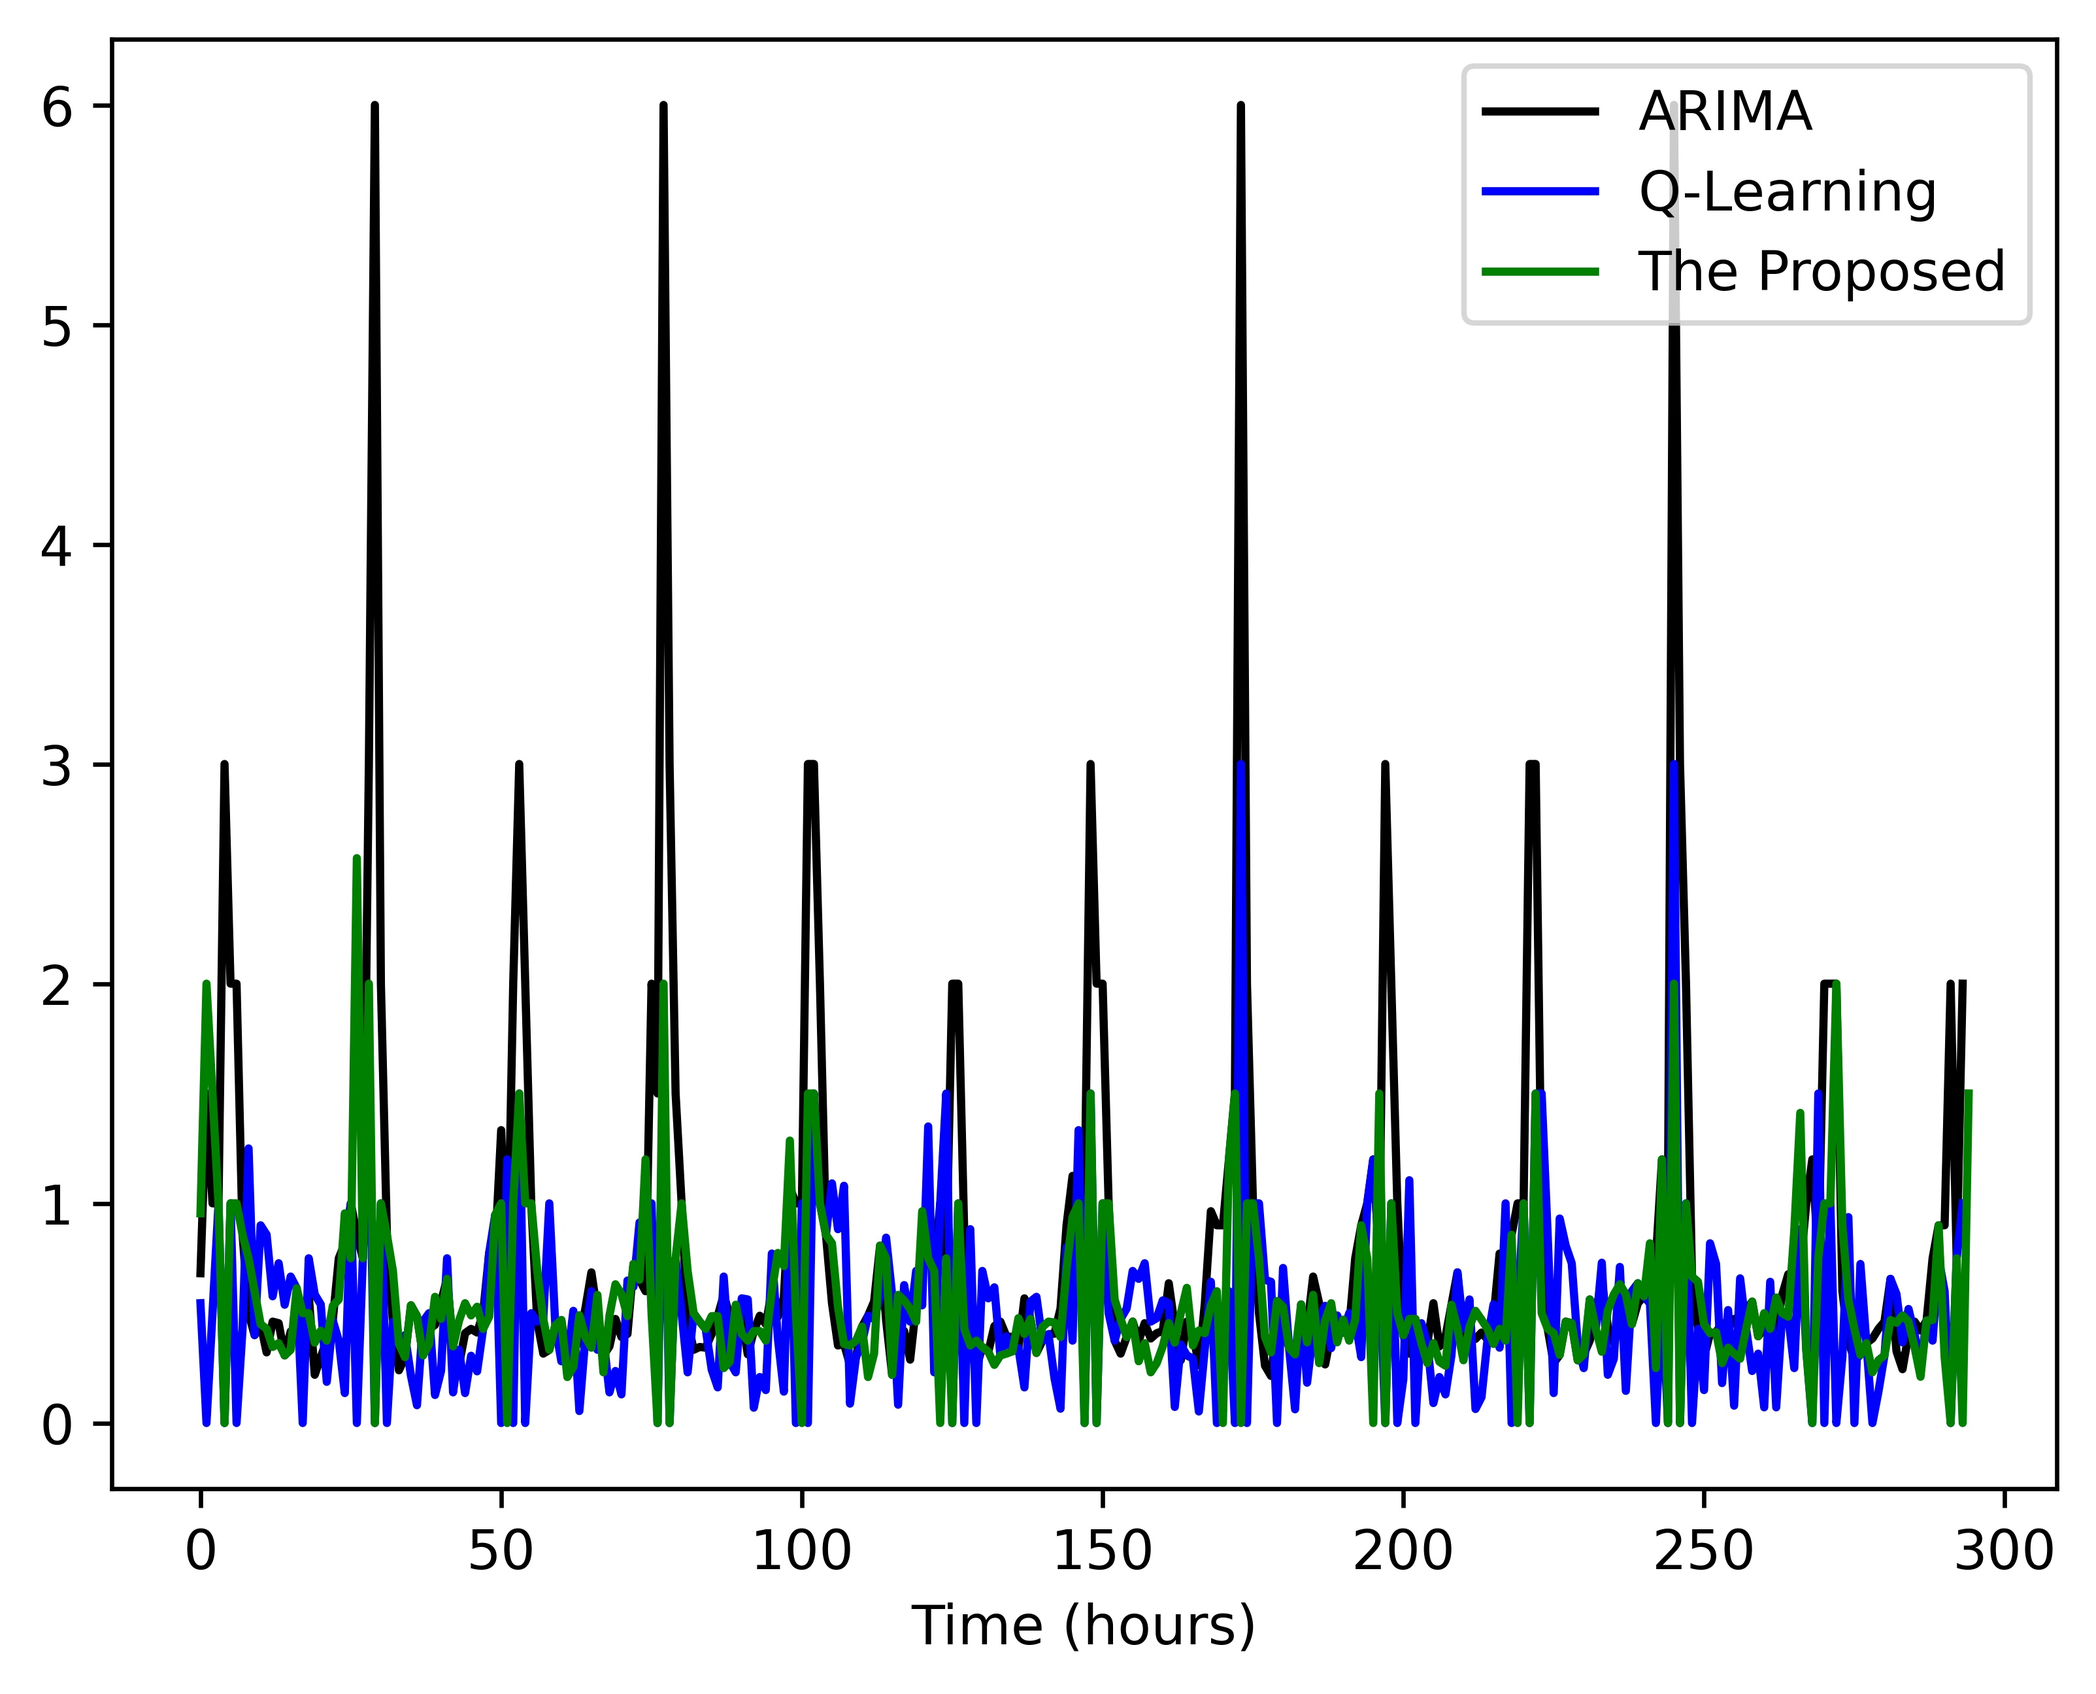
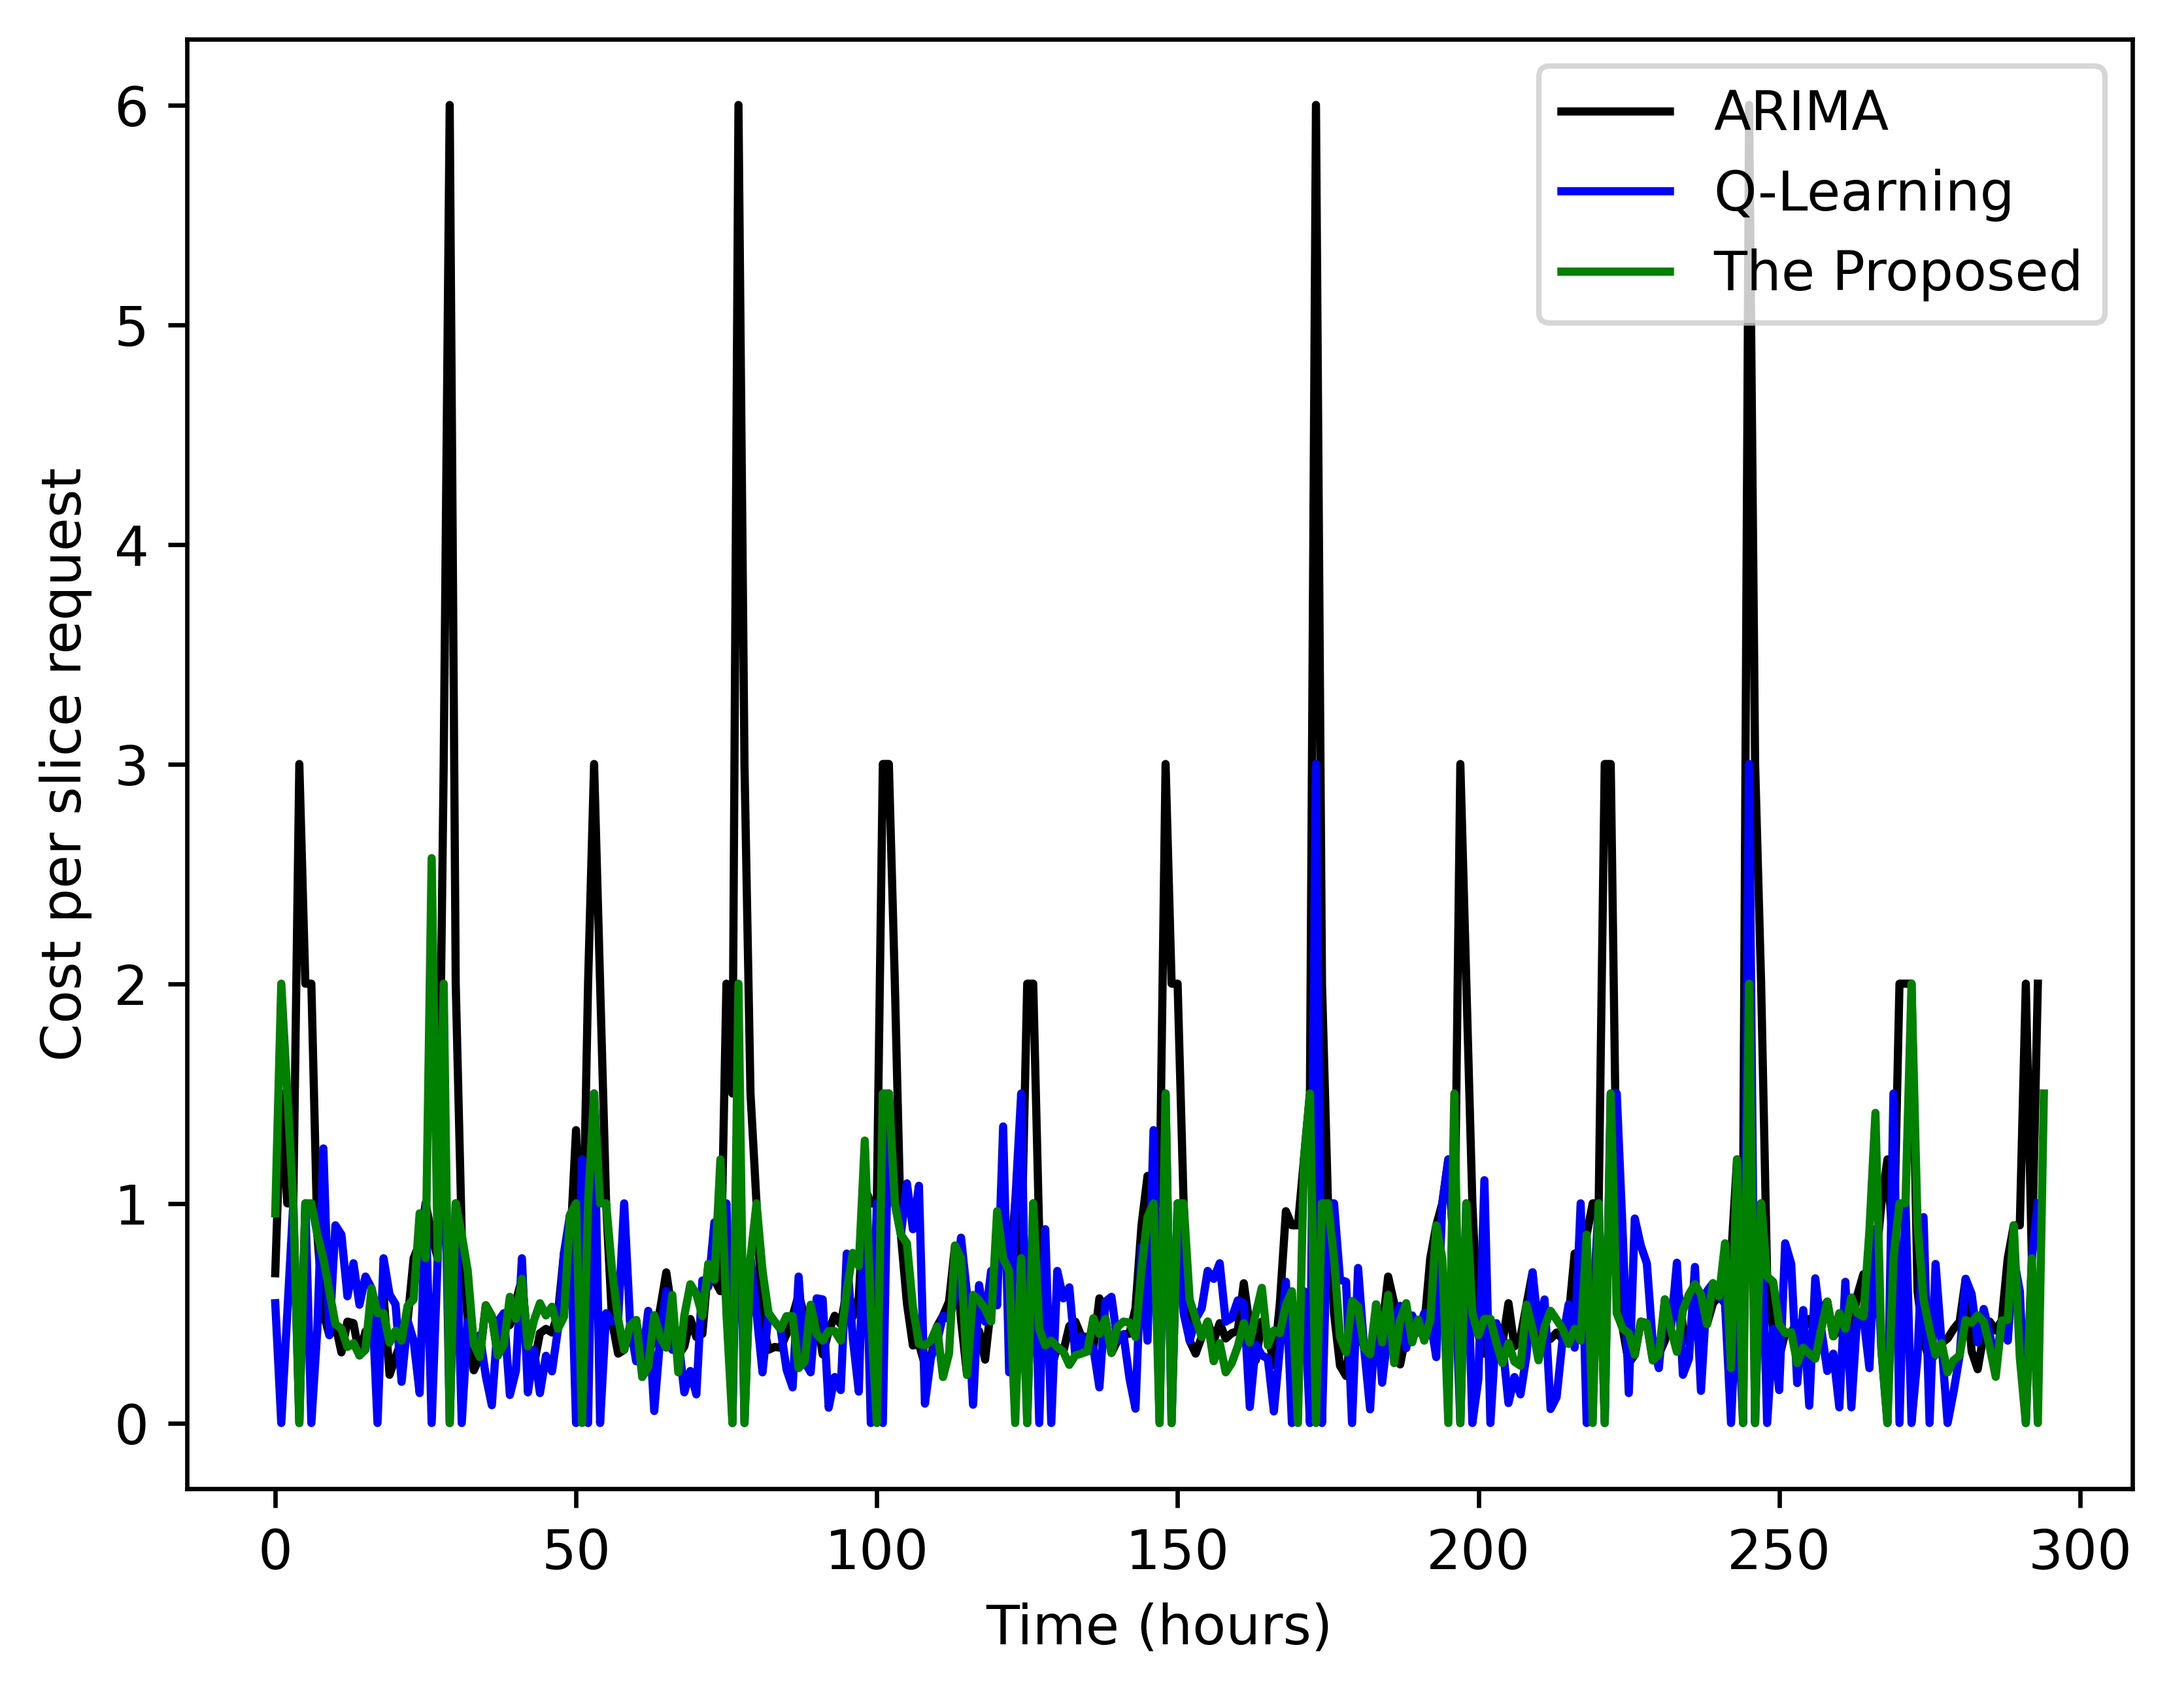
123456

diff --git a/UCD.py b/UCD.py
@@ -301,29 +301,6 @@ def greedy(tasks):
 			break
 	return xi
 
-def greedy2(tasks):
-	xi=[0]*users
-	b=[0]*users
-
-	tasks_s=sorted(tasks.items(), key=lambda kv: kv[1]['pri']/(kv[1]['d']/kv[1]['Tm']) )
-
-	#occupied bandwidth
-	remainB=B
-	remainF=F
-
-	for e in tasks_s:
-		#allocate bandwidth
-		bi=2*e[1]['a']/e[1]['Tm']/log2(1+e[1]['SINR'])
-		fi=1.25*e[1]['d']/e[1]['Tm']
-		if remainB-bi<0 or remainF-fi<0:
-			break
-		else:
-			remainB-=bi
-			remainF-=fi
-			xi[e[0]]=1
-
-	return xi
-
 def PSO(tasks):
 	particles=200
 	#a single particle (solution vector)
@@ -390,7 +367,7 @@ def GA_x(tasks):
 		for a in range(size):
 			xi=list()
 			for b in range(users):
-				if np.random.rand()<prob/users:
+				if np.random.rand()<15/users:
 					xi.append(np.random.rand())
 				else:
 					xi.append(0)
@@ -522,8 +499,9 @@ def draw_avg():
 	plt.show()
 
 def draw_users():
-	#result=[[-0.10689215350174067, -0.12258751955370198, -0.10664938851603122, -0.10914649076739066, -0.10352928516081307, -0.11127262145823709, -0.11005122844295091], [0.5598836536425962, 0.36792046928941746, 0.1649824545931375, -0.10109683084887193, -0.28177171302590576, -0.3590176136757609, -0.37326622068182996], [0.5598964288522993, 0.34955962066748136, 0.21763963785257454, 0.13635219564725318, 0.09686138192362795, 0.052573965820916654, 0.026589646026615635], [0.5216173876758898, 0.40404328923329014, 0.31663210920423096, 0.24558096638413635, 0.192273764101235, 0.1277150637090219, 0.07557143521468176], [0.5598836536425962, 0.3527461792501668, 0.22769903483542914, 0.14634974843610654, 0.10359187562921575, 0.06347987540291242, 0.040366798345693726], [0.5966541623574921, 0.4902104750325136, 0.42170249237138857, 0.3646301289171351, 0.32061896540159845, 0.2731650095641522, 0.23237548736062189]]
-	global users
+	result=[[-0.10689215350174067, -0.12258751955370198, -0.10664938851603122, -0.10914649076739066, -0.10352928516081307, -0.11127262145823709, -0.11005122844295091], [0.5598836536425962, 0.36792046928941746, 0.1649824545931375, -0.10109683084887193, -0.28177171302590576, -0.3590176136757609, -0.37326622068182996], [0.5598964288522993, 0.34955962066748136, 0.21763963785257454, 0.13635219564725318, 0.09686138192362795, 0.052573965820916654, 0.026589646026615635], [0.5216173876758898, 0.40404328923329014, 0.31663210920423096, 0.24558096638413635, 0.192273764101235, 0.1277150637090219, 0.07557143521468176], [0.5598836536425962, 0.3527461792501668, 0.22769903483542914, 0.14634974843610654, 0.10359187562921575, 0.06347987540291242, 0.040366798345693726], [0.5966541623574921, 0.4902104750325136, 0.42170249237138857, 0.3646301289171351, 0.32061896540159845, 0.2731650095641522, 0.23237548736062189]]
+	x=[10,20,30,40,50,60,70]
+	'''global users
 	global prob
 	x=list()
 	result=list()
@@ -537,7 +515,7 @@ def draw_users():
 			result[i].append(perform[i])
 
 		print(users)
-		users+=10
+		users+=10'''
 
 	print('users', result)
 	plt.plot(x,result[5],"go-",label='The Proposed')
@@ -546,7 +524,7 @@ def draw_users():
 	plt.plot(x,result[2],"yD-",label='Greedy')
 	plt.plot(x,result[1],"rp-",label='FRE')
 	plt.plot(x,result[0],"cx-",label='FLE')
-	plt.xlabel("Number of users")
+	plt.xlabel("Number of active SSs")
 	plt.ylabel("Average utility")
 	plt.legend()
 	plt.savefig('QoS.jpg', dpi = 600, bbox_inches='tight')
@@ -657,7 +635,7 @@ def draw_optimal():
 	plt.savefig('OPT.jpg', dpi=600,bbox_inches='tight')
 	plt.show()
 
-draw_optimal()
+draw_alpha()
 #2/24: iterative/greedy:1.08, iterative/GA:1.18 ,
 #2/25: iterative/GA_x:1.22, iterative/GA: 1.18 (both no penalty)
 #2/28: iterative/PSO:1.21, iterative/greedy: 1.57

diff --git a/Implementation.py b/Implementation.py
@@ -369,7 +369,7 @@ def draw_avg():
 	plt.show()
 
 def draw_users():
-	#[[-0.0560508543470955, -0.10232465113244134, -0.08640974215979584, -0.10710901409832328, -0.11701713688781498, -0.10427602351274189, -0.09746809895744712], [0.548330167484117, 0.3653749717294511, 0.1768105388819655, -0.10271013881293471, -0.30076116751519966, -0.3590444674082899, -0.3728112232960363], [0.5484052377587394, 0.3437210604302775, 0.18770637488011946, 0.09592393671138162, 0.027454697703110265, 0.009635876510567265, -0.0025874877668921447], [0.5084444599247216, 0.40346103604543243, 0.32688844161312286, 0.24020588553937477, 0.17849576879610227, 0.1285555842597195, 0.07409804858965259], [0.5484031817144704, 0.3581137583822125, 0.24268856218335222, 0.1448008236867084, 0.08426471425537715, 0.06177033436629506, 0.04645799788399567], [0.5844750504728554, 0.4874066022708568, 0.4296211836404238, 0.3629855676683852, 0.29489952781163703, 0.2606597573873945, 0.23213894889176406]]	
+	result=[[-0.0560508543470955, -0.10232465113244134, -0.08640974215979584, -0.10710901409832328, -0.11701713688781498, -0.10427602351274189, -0.09746809895744712], [0.548330167484117, 0.3653749717294511, 0.1768105388819655, -0.10271013881293471, -0.30076116751519966, -0.3590444674082899, -0.3728112232960363], [0.5484052377587394, 0.3437210604302775, 0.18770637488011946, 0.09592393671138162, 0.027454697703110265, 0.009635876510567265, -0.0025874877668921447], [0.5084444599247216, 0.40346103604543243, 0.32688844161312286, 0.24020588553937477, 0.17849576879610227, 0.1285555842597195, 0.07409804858965259], [0.5484031817144704, 0.3581137583822125, 0.24268856218335222, 0.1448008236867084, 0.08426471425537715, 0.06177033436629506, 0.04645799788399567], [0.5844750504728554, 0.4874066022708568, 0.4296211836404238, 0.3629855676683852, 0.29489952781163703, 0.2606597573873945, 0.23213894889176406]]	
 	global users
 	global B
 	global F
@@ -379,7 +379,7 @@ def draw_users():
 	F=100
 
 	x=list()
-	result=list()
+	'''result=list()
 	for e in range(6):
 		result.append([])
 
@@ -389,8 +389,8 @@ def draw_users():
 		for i in range(6):
 			result[i].append(perform[i])
 		print(users)
-		users+=10
-
+		users+=10'''
+	x=[10,20,30,40,50,60,70]
 	print('users', result)
 	plt.plot(x,result[5],"go-",label='The Proposed')
 	plt.plot(x,result[4],"b*-",label='PSO')
@@ -398,7 +398,7 @@ def draw_users():
 	plt.plot(x,result[2],"yD-",label='Greedy')
 	plt.plot(x,result[1],"rp-",label='FRE')
 	plt.plot(x,result[0],"cx-",label='FLE')
-	plt.xlabel("Number of users")
+	plt.xlabel("Number of active SSs")
 	plt.ylabel("Average utility")
 	plt.legend()
 	plt.savefig('QoS_imp.jpg', dpi = 600, bbox_inches='tight')

diff --git a/plot.py b/plot.py
@@ -32,3 +32,15 @@ with open("train.dat") as f:
 #plt.plot(DQL, "go-")
 #plt.plot(QL, "bo-")
 #plt.show()
+
+#a=[0.5484052377587394, 0.3437210604302775, 0.18770637488011946, 0.09592393671138162, 0.027454697703110265, 0.009635876510567265, -0.0025874877668921447]
+#b=[0.5598964288522993, 0.34955962066748136, 0.21763963785257454, 0.13635219564725318, 0.09686138192362795, 0.052573965820916654, 0.026589646026615635]
+#a=[0.5484031817144704, 0.3581137583822125, 0.24268856218335222, 0.1448008236867084, 0.08426471425537715, 0.06177033436629506, 0.04645799788399567]
+#b=[0.5598836536425962, 0.3527461792501668, 0.22769903483542914, 0.14634974843610654, 0.10359187562921575, 0.06347987540291242, 0.040366798345693726]
+#a=[0.5844750504728554, 0.4874066022708568, 0.4296211836404238, 0.3629855676683852, 0.29489952781163703, 0.2606597573873945, 0.23213894889176406]
+#b=[0.5966541623574921, 0.4902104750325136, 0.42170249237138857, 0.3646301289171351, 0.32061896540159845, 0.2731650095641522, 0.23237548736062189]
+a=[0.5084444599247216, 0.40346103604543243, 0.32688844161312286, 0.24020588553937477, 0.17849576879610227, 0.1285555842597195, 0.07409804858965259]
+b=[0.5216173876758898, 0.40404328923329014, 0.31663210920423096, 0.24558096638413635, 0.192273764101235, 0.1277150637090219, 0.07557143521468176]
+plt.plot(a, "go-")
+plt.plot(b, "bo-")
+plt.show()

diff --git a/RL.py b/RL.py
@@ -670,7 +670,7 @@ def draw_realtime():
 	plt.xlabel("Time (hours)")
 	#plt.ylabel("Profit per slice request")
 	#plt.ylabel("Revenue per slice request")
-	#plt.ylabel("Cost per slice request")
+	plt.ylabel("Cost per slice request")
 	plt.legend()
 	#plt.savefig('Prealtime.jpg', dpi=600, bbox_inches='tight')
 	#plt.savefig('Rrealtime.jpg', dpi=600, bbox_inches='tight')
@@ -737,8 +737,8 @@ def draw_bar():
 #ARIMA()
 #QL()
 #draw_bar()
-draw_learning()
-#draw_realtime()
+#draw_learning()
+draw_realtime()
 
 #4/8: QL, DQL done, traffic range 2~50, for 0.3, revenue=0.6~15*5, for 1.3, revenue=1~25*5
 #4/9: 跑圖完成
